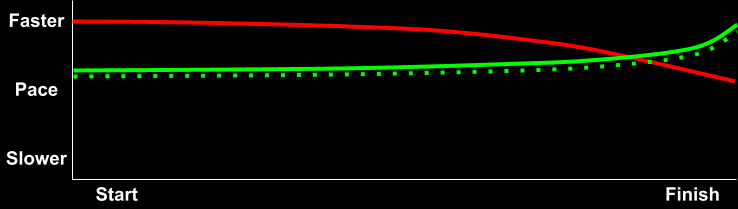
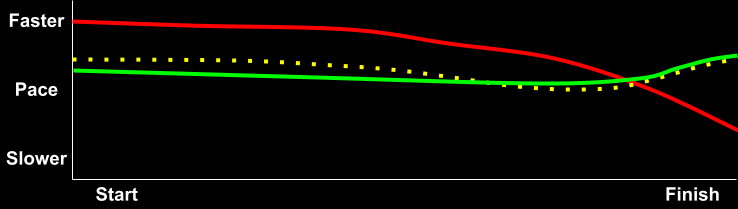
Fix all green line charts, add missing yellow line chart, fix internal links
- All 6 existing gl-chart images were off by one position because the
  yellow line chart was never downloaded during migration. Corrected
  each to match the original Blogspot post order.
- Added missing yellow line strategy chart as gl-chart-7.png
- Updated green-line.png thumbnail to use correct green line race chart
- Added render-link.html hook to strip leading / from markdown links,
  fixing 404s on internal links (e.g. /posts/estimating-the-green-line/)

Changed region(s): [[0.0935, 0.0861, 1.0, 0.4593], [0.9038, 0.4593, 1.0, 0.6316]]

diff --git a/themes/ncr/layouts/_default/_markup/render-link.html b/themes/ncr/layouts/_default/_markup/render-link.html
@@ -1,0 +1,1 @@
+<a href="{{ .Destination | strings.TrimPrefix "/" }}"{{ with .Title }} title="{{ . }}"{{ end }}>{{ .Text }}</a>

diff --git a/content/posts/below-the-green-line.md b/content/posts/below-the-green-line.md
@@ -41,6 +41,8 @@ There isn't an exact definition of what the line is, but it typically stays flat
 
 The dotted yellow line shows the yellow line race execution, with it's red line shown in red and yellow stripes. It allows for some slowdown, but propels the runner up the leaderboard later in the race relative to red line racers. Notice the red line doesn't dip nearly as quickly this time, and doesn't crash as hard allowing a bigger and faster kick.
 
+![Yellow line strategy](/images/gl-chart-7.png)
+
 ## Below the Green Line
 
 One of my biggest breakthroughs came when I defined the green line. The green line is the pace that can be maintained from the current distance in the race to the end of the race if everything goes perfectly. The green line strategy is simple - stay a bit below the green line from start to finish.
